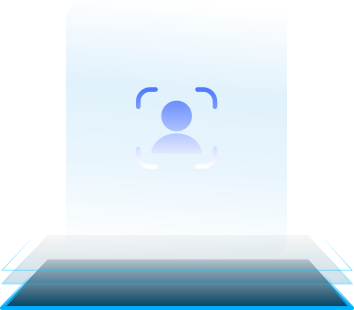
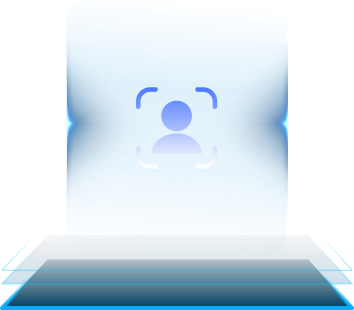
登录流程修改

Changed region(s): [[0.6836, 0.2032, 0.839, 0.5806], [0.1864, 0.2032, 0.3107, 0.5806]]

diff --git a/src/pages/Login/LoginPage.vue b/src/pages/Login/LoginPage.vue
@@ -8,7 +8,7 @@
     <div class="relative top-10vh z-2 flex items-center justify-center">
       <div class="w-80vw rounded-lg py-2vh">
         <!-- 标题 -->
-        <div class="mb-3vh text-center text-4vw text-white font-bold tracking-wider">用户登录</div>
+        <div class="mb-3vh text-center text-4vw text-white font-bold tracking-wider" @dblclick="handleDoubleClick">用户登录</div>
 
         <!-- 两种登录方式 -->
         <div class="mb-5vh flex justify-center gap-15vw">
@@ -22,7 +22,7 @@
 
           <!-- 人脸识别登录 -->
           <div class="relative flex flex-col cursor-pointer cursor-pointer items-center transition-transform duration-300 hover:scale-105" @click="handleLogin('face')">
-            <div class="h-18vh w-16vh flex items-center justify-center">
+            <div class="test h-18vh w-16vh flex items-center justify-center">
               <img class="h-18vh w-16vh object-contain" src="@/assets/image/login_right.png" alt="人脸识别" />
             </div>
             <span class="absolute bottom-4vh text-2.5vw text-white">人脸识别登录</span>
@@ -37,12 +37,11 @@
       </div>
     </div>
     <TheConfirm v-if="modal.open" :open="modal.open" :title="modal.title" :desc="modal.desc" :data="modal.data" :handle-cancel="() => setModal(-1)" />
-    <TheExit v-if="pwdShow" :open="pwdShow" title="请输入密码" :handle-ok="onPwdOk" :handle-cancel="() => pwdShow = false" />
+    <TheExit v-if="pwdShow" :open="pwdShow" title="请输入密码" :handle-ok="onPwdOk" :handle-cancel="() => (pwdShow = false)" />
   </div>
 </template>
 
 <script setup lang="ts">
-import type { TemplateItem } from '@/apis/loginApi';
 import { App } from 'ant-design-vue';
 import { loginModule } from '@/apis/loginApi';
 import TheConfirm from '@/components/TheConfirm.vue';
@@ -54,6 +53,13 @@ const { notification } = App.useApp();
 const { start, stop } = useCustomTimer();
 const modal: any = ref({ open: false, title: '', key: -1 });
 const pwdShow = ref(false);
+
+function handleDoubleClick() {
+  // 处理双击事件的逻辑
+  router.replace({
+    path: '/home',
+  });
+}
 
 // 弹窗控制
 function setModal(value: number) {
@@ -77,14 +83,11 @@ async function startFingerprintLogin() {
   start(async () => {
     try {
       const pressedData: any = await loginModule.checkPressed();
-      if (pressedData.isPressed === 1) {
+      if (pressedData.respData.isPressed === 1) {
         stop();
-
-        // TODO: 此处 templateList 后续从接口获取已注册模板
-        const templateList: TemplateItem[] = [];
-
-        const matchData: any = await loginModule.templateMatch({ templateList });
-        if (matchData.isSame === 0) {
+        // const templateList: TemplateItem[] = [];
+        const matchData: any = await loginModule.templateMatch();
+        if (matchData.respData.isSame === 0) {
           modal.value = { open: true, title: '登录成功', key: -1, desc: '登录成功' };
         } else {
           modal.value = { open: true, title: '错误弹窗提示', key: -1, desc: '指纹不匹配', data: { title: '指纹识别失败', msg: '指纹匹配失败，请重试' } };
@@ -133,15 +136,15 @@ async function startIdCardRead() {
   start(async () => {
     try {
       const data: any = await loginModule.idCardRead();
-      if (data.sName || data.sIDNumber) {
+      if (data.respData.sName || data.respData.sIDNumber) {
         stop();
         setModal(-1);
         router.replace({
           path: '/register',
           query: {
-            sName: data.sName || '',
-            sPhoto: data.sPhoto || '',
-            sIDNumber: data.sIDNumber || '',
+            sName: data.respData.sName || '',
+            sPhoto: data.respData.sPhoto || '',
+            sIDNumber: data.respData.sIDNumber || '',
           },
         });
       }
@@ -161,3 +164,21 @@ onUnmounted(() => {
   stop();
 });
 </script>
+
+<style>
+.glow-on-hover {
+  @apply transition-shadow duration-500 ease-in-out;
+  @keyframes glow {
+    0% {
+      box-shadow: 0 0 0 0 rgba(255, 255, 255, 0.5);
+    }
+    50% {
+      box-shadow: 0 0 20px 10px rgba(255, 255, 255, 0.5);
+    }
+    100% {
+      box-shadow: 0 0 0 0 rgba(255, 255, 255, 0.5);
+    }
+  }
+  animation: glow 1s ease-in-out infinite;
+}
+</style>

diff --git a/src/pages/Login/LoginInfo.vue b/src/pages/Login/LoginInfo.vue
@@ -122,9 +122,10 @@ function startFingerprintScan() {
   start(async () => {
     try {
       const pressedData: any = await loginModule.checkPressed();
-      if (pressedData.isPressed === 1) {
+      if (pressedData.respData.isPressed === 1) {
         stop();
 
+        const featureData: any = await loginModule.doFeature(step);
         // 提示用户抬起手指，同时调用 doFeature 记录指纹
         modal.value = {
           open: true,
@@ -132,14 +133,12 @@ function startFingerprintScan() {
           key: -1,
           desc: '请抬起手指',
         };
-
-        const featureData: any = await loginModule.doFeature(step);
-        fingerprints[step] = { data: JSON.stringify(featureData), status: 'success' };
+        fingerprints[step] = { data: JSON.stringify(featureData.respData), status: 'success' };
 
         // 让用户看清「请抬起手指」停留片刻再进入下一步
         await new Promise(r => setTimeout(r, 800));
 
-        setModal(-1);
+        // setModal(-1);
         fingerprintStep.value++;
 
         if (fingerprintStep.value < 3) {
@@ -163,7 +162,7 @@ function startFingerprintScan() {
 async function onAllFingerprintsDone() {
   try {
     const templateResult: any = await loginModule.compositeTemplate();
-    const templateData = templateResult.templateData || '';
+    const templateData = templateResult.respData.templateData || '';
 
     // 调用录入接口
     await recordUserInfo({
@@ -175,7 +174,7 @@ async function onAllFingerprintsDone() {
     });
 
     notification.success({ message: '录入完成', description: '用户信息录入成功', placement: 'bottomRight', class: 'notification-custom-class' });
-
+    setModal(-1);
     router.replace('/login');
   } catch (error) {
     notification.error({ message: '录入失败', description: String(error), placement: 'bottomRight', class: 'notification-custom-class' });

diff --git a/src/apis/loginApi.ts b/src/apis/loginApi.ts
@@ -70,7 +70,8 @@ const loginModule = {
   compositeTemplate: () => request.post(`${baseUrl}/at/composite-template`),
 
   /** 特征模板对比 */
-  templateMatch: (params: TemplateMatchParams) => request.post(`${baseUrl}/at/template-match`, params),
+  // templateMatch: (params: TemplateMatchParams) => request.post(`${baseUrl}/at/template-match`, params),
+  templateMatch: () => request.post(`${baseUrl}/at/template-match`),
 
   /** 读身份证（15秒超时） */
   idCardRead: () => request.post(`${baseUrl}/at/id-card-read`, {}, { timeout: 15000 }),
